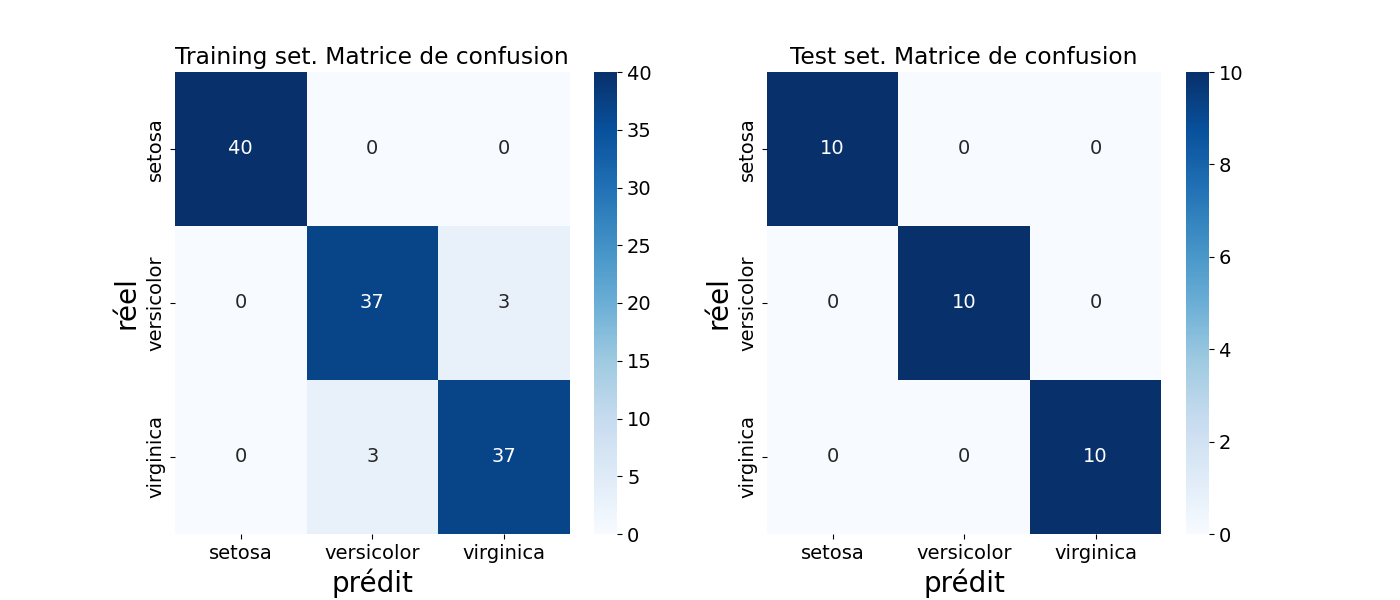
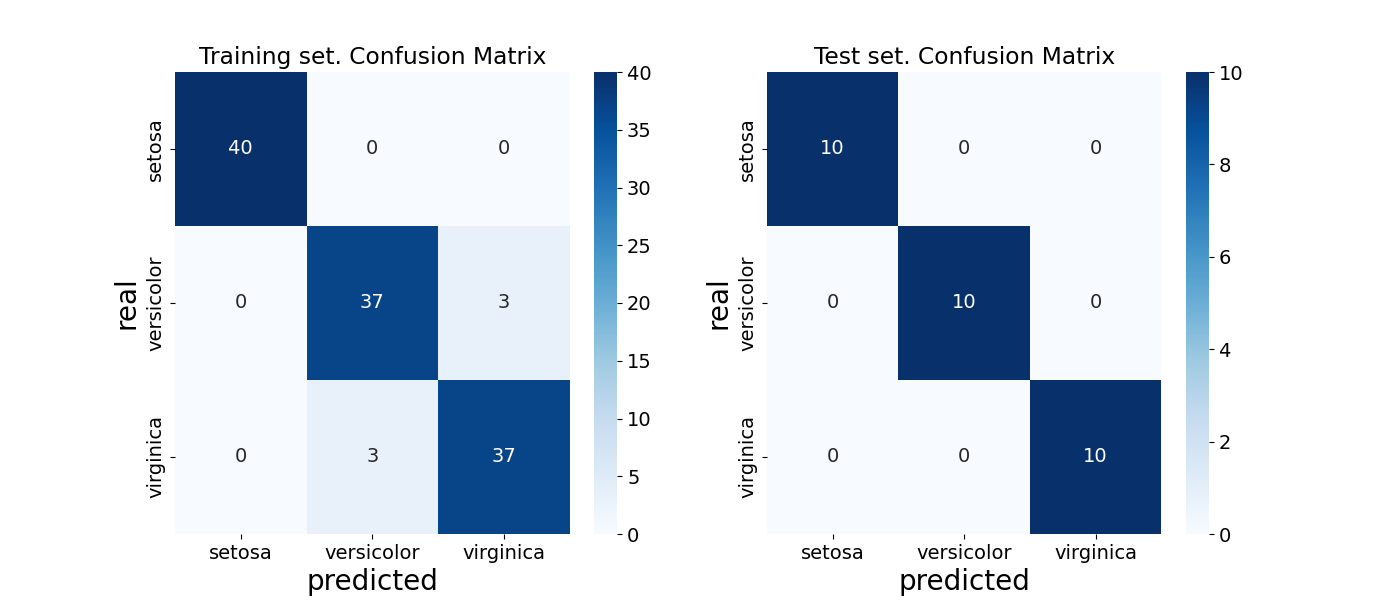
Iris3 in English

diff --git a/CHANGE.md b/CHANGE.md
@@ -2,7 +2,7 @@
 
 [<img width="700px" src="./config/svg/PytChemBanner.svg"/>](#top)
 
-##### **2023.05.21. v1.6.0**
+##### **2023.05.22. v1.6.0**
 - "Iris3" = [Régression logistique](./DS4B-Iris3.ipynb) is now also available in English (*Supervised Machine Learning applied to classification*)
 - "Iris1" Exercise and Solution to exercise is now available in English
 
